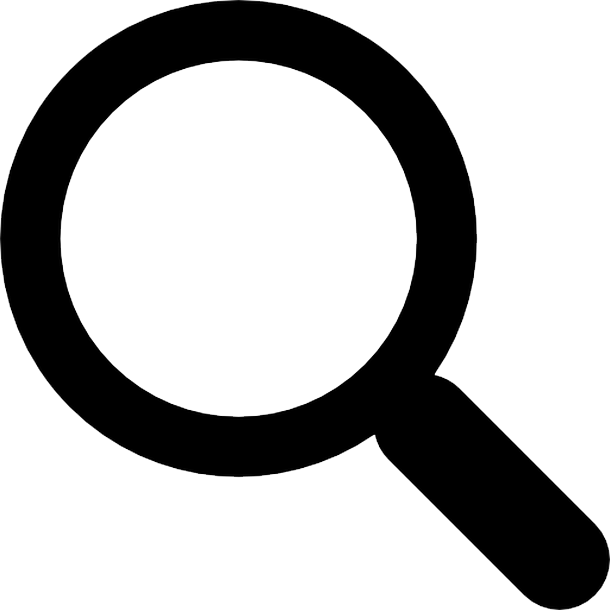
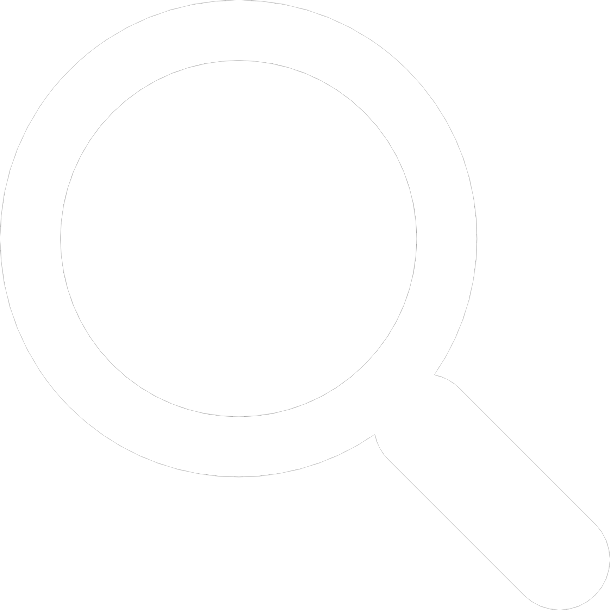
JEMTunes V1.4
~ Inverted bulb colour to white
~ Adjusted banner resolution
~ Changed background colour for body and headder
~ Changed hyperlinks to white
~ Centered body and headder

Changed region(s): [[0.0, 0.0, 1.0, 1.0]]

diff --git a/index.html b/index.html
@@ -1,18 +1,18 @@
 <html>
-<body>
+<body bgcolor="#767373">
 <title>JEMTunes - Home</title>
 
 <head>
-<div style="text-align:center">
+<div style="text-align:center;background-color:#363636">
 <img src="images/JEMBack.png" alt="JEMTunes" style="width:150px;height:75px;">
-<a href="WIP.html">Browse</a>
-<a href="WIP.html">Top 10</a>
+<a href="WIP.html"><font color="WHITE">Browse</font></a>
+<a href="WIP.html"><font color="WHITE">Top 10</font></a>
 <img src="images/magnify.png" style="width:15px;height:15px;">
 
 <input type="text" name="FirstName" value="Search">
 
 <img src="images/bulb.png" style="width:27px;height:29px;">
-<a href="sign-up.html">Sign up</a>
+<a href="sign-up.html"><font color="WHITE">Sign up</font></a>
 </div>
 </head>
 
